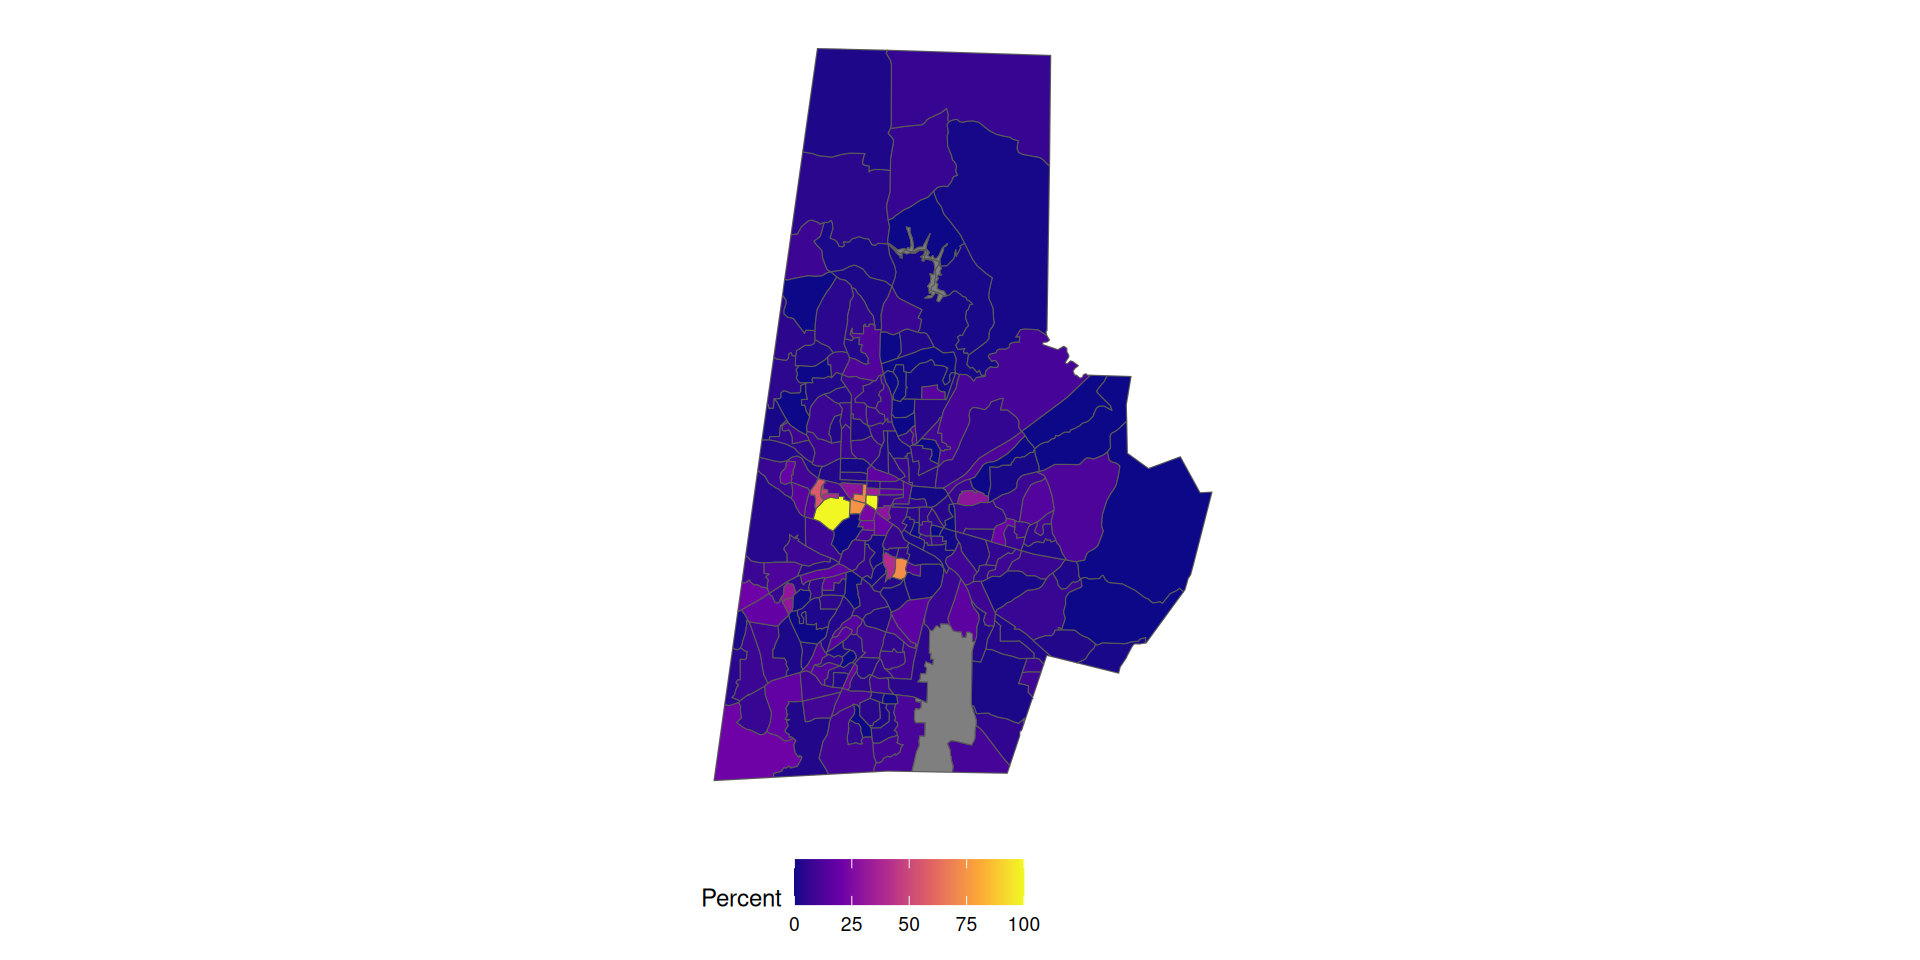
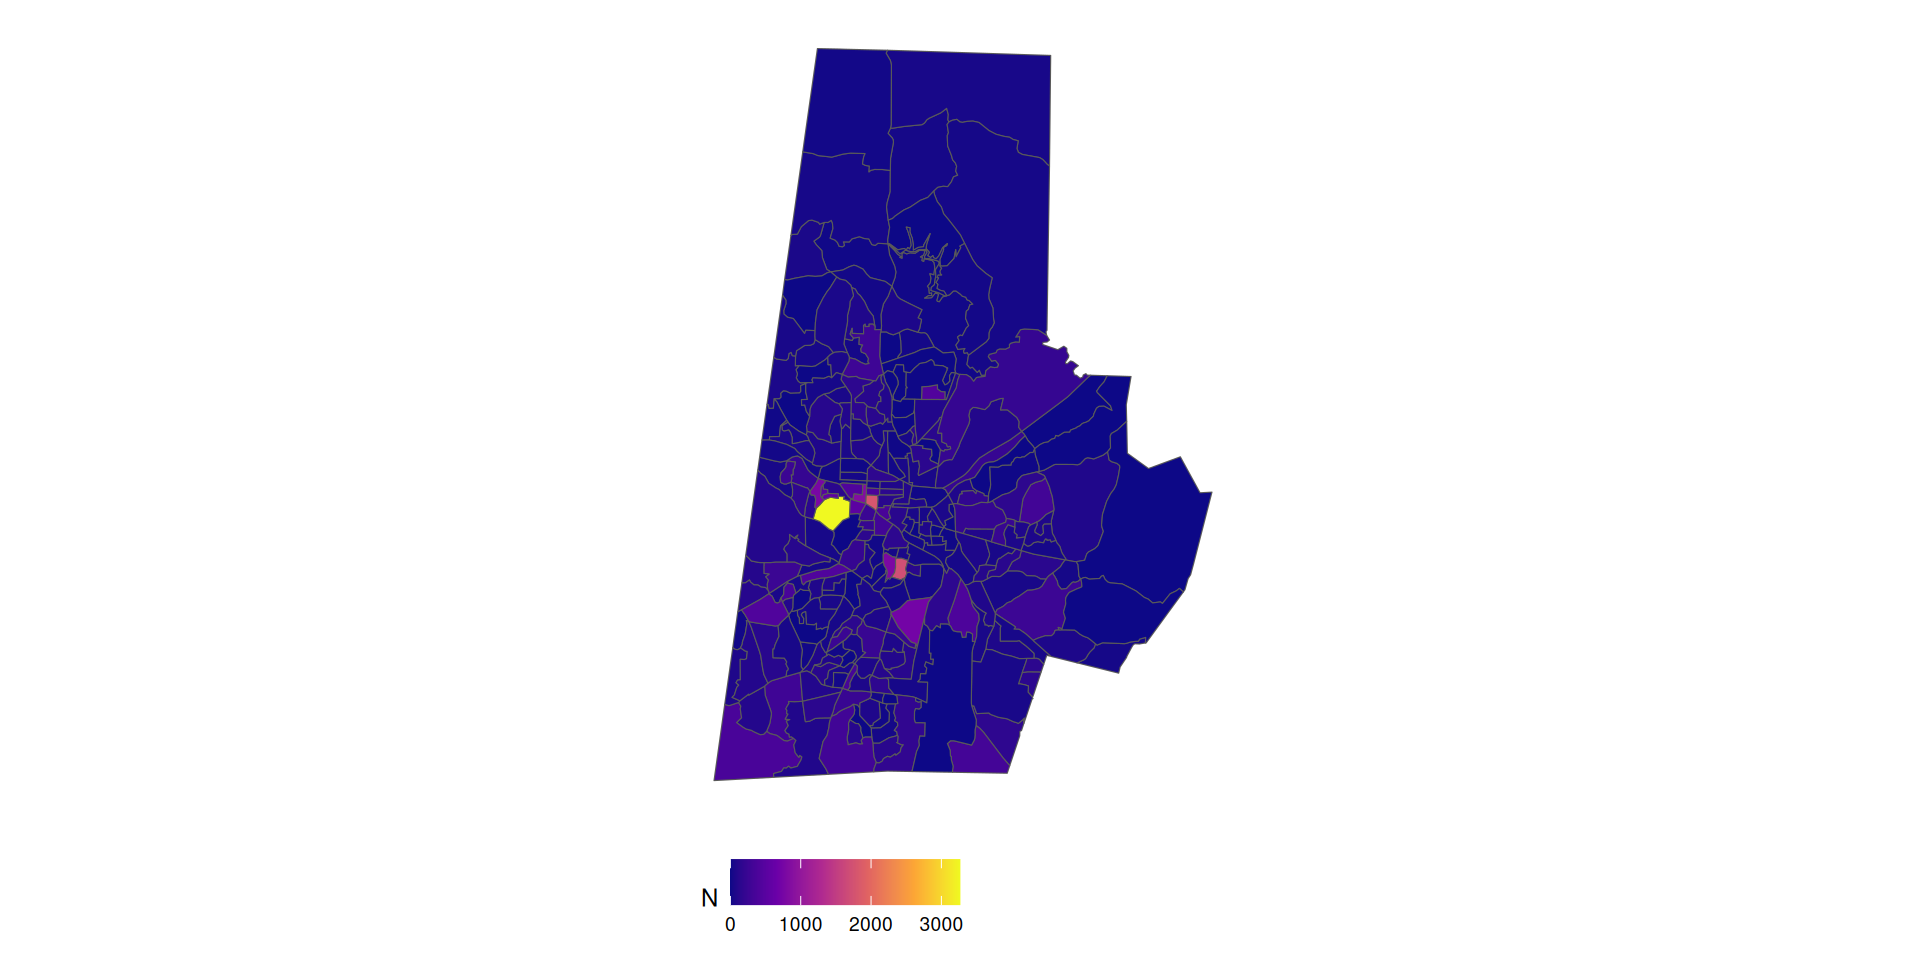
Built site for gh-pages

diff --git a/Slides.html b/Slides.html
@@ -303,10 +303,12 @@ $ geography &lt;chr&gt; "tract", "tract", "tract", "tract", "tract", "tract", "t
 </ul>
 <div class="cell">
 <div class="sourceCode cell-code" id="cb6"><pre class="sourceCode numberSource r number-lines code-with-copy"><code class="sourceCode r"><span id="cb6-1"><a></a>findvars_tidy <span class="sc">%&gt;%</span></span>
-<span id="cb6-2"><a></a>  <span class="fu">filter</span>(<span class="fu">str_detect</span>(concept, <span class="st">"School Enrollment"</span>),</span>
-<span id="cb6-3"><a></a>         geography <span class="sc">==</span> <span class="st">"block group"</span>) <span class="sc">%&gt;%</span></span>
-<span id="cb6-4"><a></a>  <span class="fu">mutate</span>(<span class="at">Table=</span><span class="fu">word</span>(name, <span class="dv">1</span>, <span class="at">sep=</span><span class="st">"_"</span>)) <span class="sc">%&gt;%</span></span>
-<span id="cb6-5"><a></a>  <span class="fu">count</span>(Table, concept)</span></code><button title="Copy to Clipboard" class="code-copy-button"><i class="bi"></i></button></pre></div>
+<span id="cb6-2"><a></a>  <span class="fu">filter</span>(</span>
+<span id="cb6-3"><a></a>    <span class="fu">str_detect</span>(concept, <span class="st">"School Enrollment"</span>),</span>
+<span id="cb6-4"><a></a>    geography <span class="sc">==</span> <span class="st">"block group"</span></span>
+<span id="cb6-5"><a></a>  ) <span class="sc">%&gt;%</span></span>
+<span id="cb6-6"><a></a>  <span class="fu">mutate</span>(<span class="at">Table =</span> <span class="fu">word</span>(name, <span class="dv">1</span>, <span class="at">sep =</span> <span class="st">"_"</span>)) <span class="sc">%&gt;%</span></span>
+<span id="cb6-7"><a></a>  <span class="fu">count</span>(Table, concept)</span></code><button title="Copy to Clipboard" class="code-copy-button"><i class="bi"></i></button></pre></div>
 <div class="cell-output cell-output-stdout">
 <pre><code># A tibble: 13 × 3
    Table   concept                                                             n
@@ -325,7 +327,7 @@ $ geography &lt;chr&gt; "tract", "tract", "tract", "tract", "tract", "tract", "t
 12 B14007I School Enrollment by Detailed Level of School for the Populati…    19
 13 B99141  Allocation of School Enrollment for the Population 3 Years and…     3</code></pre>
 </div>
-<div class="sourceCode cell-code" id="cb8"><pre class="sourceCode numberSource r number-lines code-with-copy"><code class="sourceCode r"><span id="cb8-1"><a></a>findvars_tidy <span class="sc">%&gt;%</span> </span>
+<div class="sourceCode cell-code" id="cb8"><pre class="sourceCode numberSource r number-lines code-with-copy"><code class="sourceCode r"><span id="cb8-1"><a></a>findvars_tidy <span class="sc">%&gt;%</span></span>
 <span id="cb8-2"><a></a>  <span class="fu">filter</span>(<span class="fu">str_detect</span>(name, <span class="st">"B14007_"</span>)) <span class="sc">%&gt;%</span></span>
 <span id="cb8-3"><a></a>  <span class="fu">select</span>(name, label)</span></code><button title="Copy to Clipboard" class="code-copy-button"><i class="bi"></i></button></pre></div>
 <div class="cell-output cell-output-stdout">
@@ -484,26 +486,23 @@ First 10 features:
 </div>
 </div>
 </section>
-<section id="calculate-percent-in-collegegrad-school-by-area" class="slide level2">
-<h2>Calculate percent in college/grad school by area</h2>
+<section id="calculate-number-in-collegegrad-school-by-area" class="slide level2">
+<h2>Calculate number in college/grad school by area</h2>
 <div class="cell">
-<div class="sourceCode cell-code" id="cb17"><pre class="sourceCode numberSource r number-lines code-with-copy"><code class="sourceCode r"><span id="cb17-1"><a></a>sch_enroll_tidy_pct <span class="ot">&lt;-</span> sch_enroll_tidy_lab <span class="sc">%&gt;%</span></span>
-<span id="cb17-2"><a></a>  <span class="fu">mutate</span>(</span>
-<span id="cb17-3"><a></a>    <span class="at">Percent=</span>estimate<span class="sc">/</span><span class="fu">sum</span>(estimate)<span class="sc">*</span><span class="dv">100</span>,</span>
-<span id="cb17-4"><a></a>    <span class="at">.by=</span><span class="st">"GEOID"</span></span>
-<span id="cb17-5"><a></a>  ) <span class="sc">%&gt;%</span></span>
-<span id="cb17-6"><a></a>  <span class="fu">filter</span>(<span class="fu">str_detect</span>(EducEnrollment, <span class="st">"college|Grad"</span>)) <span class="sc">%&gt;%</span></span>
-<span id="cb17-7"><a></a>  <span class="fu">group_by</span>(GEOID) <span class="sc">%&gt;%</span></span>
-<span id="cb17-8"><a></a>  <span class="fu">summarize</span>(</span>
-<span id="cb17-9"><a></a>    <span class="at">Percent=</span><span class="fu">sum</span>(Percent), </span>
-<span id="cb17-10"><a></a>    <span class="at">.groups=</span> <span class="st">"drop"</span>)</span></code><button title="Copy to Clipboard" class="code-copy-button"><i class="bi"></i></button></pre></div>
+<div class="sourceCode cell-code" id="cb17"><pre class="sourceCode numberSource r number-lines code-with-copy"><code class="sourceCode r"><span id="cb17-1"><a></a>college_enroll_tidy <span class="ot">&lt;-</span> sch_enroll_tidy_lab <span class="sc">%&gt;%</span></span>
+<span id="cb17-2"><a></a>  <span class="fu">filter</span>(<span class="fu">str_detect</span>(EducEnrollment, <span class="st">"college|Grad"</span>)) <span class="sc">%&gt;%</span></span>
+<span id="cb17-3"><a></a>  <span class="fu">group_by</span>(GEOID) <span class="sc">%&gt;%</span></span>
+<span id="cb17-4"><a></a>  <span class="fu">summarize</span>(</span>
+<span id="cb17-5"><a></a>    <span class="at">N =</span> <span class="fu">sum</span>(estimate),</span>
+<span id="cb17-6"><a></a>    <span class="at">.groups =</span> <span class="st">"drop"</span></span>
+<span id="cb17-7"><a></a>  )</span></code><button title="Copy to Clipboard" class="code-copy-button"><i class="bi"></i></button></pre></div>
 </div>
 </section>
 <section id="map-of-where-college-students-live" class="slide level2">
 <h2>Map of where college students live</h2>
 <div class="cell">
-<div class="sourceCode cell-code" id="cb18"><pre class="sourceCode numberSource r number-lines code-with-copy"><code class="sourceCode r"><span id="cb18-1"><a></a>sch_enroll_tidy_pct <span class="sc">%&gt;%</span></span>
-<span id="cb18-2"><a></a>  <span class="fu">ggplot</span>(<span class="fu">aes</span>(<span class="at">fill =</span> Percent)) <span class="sc">+</span></span>
+<div class="sourceCode cell-code" id="cb18"><pre class="sourceCode numberSource r number-lines code-with-copy"><code class="sourceCode r"><span id="cb18-1"><a></a>college_enroll_tidy <span class="sc">%&gt;%</span></span>
+<span id="cb18-2"><a></a>  <span class="fu">ggplot</span>(<span class="fu">aes</span>(<span class="at">fill =</span> N)) <span class="sc">+</span></span>
 <span id="cb18-3"><a></a>  <span class="fu">geom_sf</span>() <span class="sc">+</span></span>
 <span id="cb18-4"><a></a>  <span class="fu">theme_map</span>() <span class="sc">+</span></span>
 <span id="cb18-5"><a></a>  <span class="fu">scale_fill_viridis_c</span>(<span class="at">option =</span> <span class="st">"plasma"</span>) <span class="sc">+</span></span>
